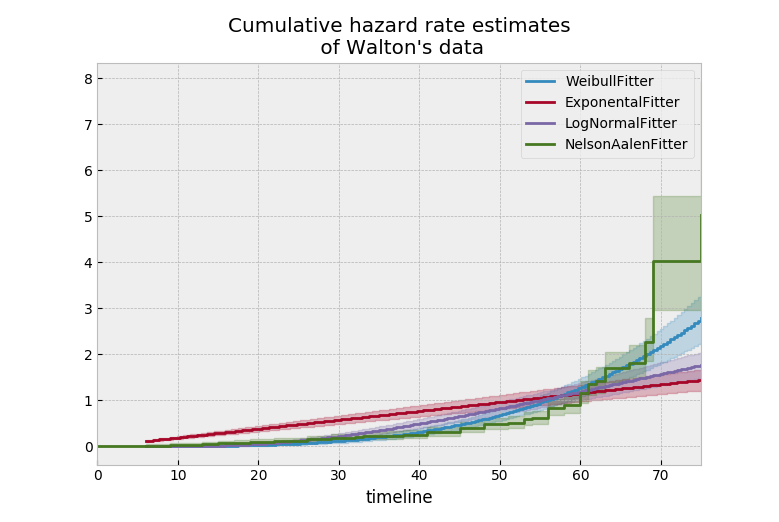
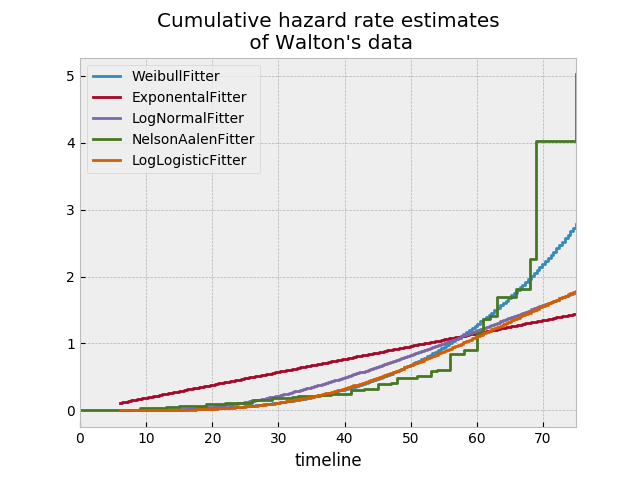
adding log-logistic fitter. This is much easier with the new patterns and autograd

diff --git a/tests/test_estimation.py b/tests/test_estimation.py
@@ -45,6 +45,7 @@ from lifelines import (
     AalenAdditiveFitter,
     AalenJohansenFitter,
     LogNormalFitter,
+    LogLogisticFitter,
 )
 
 from lifelines.datasets import (
@@ -98,6 +99,7 @@ def univariate_fitters():
         ExponentialFitter,
         WeibullFitter,
         LogNormalFitter,
+        LogLogisticFitter,
     ]
 
 
@@ -470,6 +472,88 @@ class TestLogNormal:
 
         assert abs(mu / lnf.mu_ - 1) < 0.05
         assert abs(sigma / lnf.sigma_ - 1) < 0.05
+
+
+class TestLogLogisticFitter:
+    @pytest.fixture()
+    def llf(self):
+        return LogLogisticFitter()
+
+    def test_loglogistic_model_does_not_except_negative_or_zero_values(self, llf):
+
+        T = [0, 1, 2, 4, 5]
+        with pytest.raises(ValueError):
+            llf.fit(T)
+
+        T[0] = -1
+        with pytest.raises(ValueError):
+            llf.fit(T)
+
+    def test_llf_simple_inference(self, llf):
+        from scipy.stats import fisk
+
+        T = fisk.rvs(1, scale=1, size=60000)
+        llf.fit(T)
+        assert abs(llf.alpha_ - 1) < 0.05
+        assert abs(llf.beta_ - 1) < 0.05
+
+    def test_llf_less_simple_inference(self, llf):
+        from scipy.stats import fisk
+
+        scale = 0.3
+        c = 5.4
+        T = fisk.rvs(c, scale=scale, size=60000)
+        llf.fit(T)
+        assert abs(llf.alpha_ - scale) < 0.05
+        assert abs(llf.beta_ - c) < 0.05
+
+    def test_llf_less_simple_inference_with_censorship(self, llf):
+        from scipy.stats import fisk
+
+        scale = 0.3
+        c = 5.4
+        T = fisk.rvs(c, scale=scale, size=120000)
+        C = fisk.rvs(c, scale=scale, size=120000)
+        E = T < C
+        T = np.minimum(T, C)
+        assert 1 > E.mean() > 0
+
+        llf.fit(T, E)
+        assert abs(llf.alpha_ - scale) < 0.05
+        assert abs(llf.beta_ - c) < 0.05
+
+    def test_llf_large_values(self, llf):
+        from scipy.stats import fisk
+
+        scale = 20
+        c = 50
+        T = fisk.rvs(c, scale=scale, size=100000)
+        C = fisk.rvs(c, scale=scale, size=100000)
+        E = T < C
+        T = np.minimum(T, C)
+
+        assert 1 > E.mean() > 0
+
+        llf.fit(T, E)
+        assert abs(llf.alpha_ / scale - 1) < 0.05
+        assert abs(llf.beta_ / c - 1) < 0.05
+
+    @pytest.mark.xfail()
+    def test_llf_small_values(self, llf):
+        from scipy.stats import fisk
+
+        scale = 0.05
+        c = 0.05
+        T = fisk.rvs(c, scale=scale, size=100000)
+        C = fisk.rvs(c, scale=scale, size=100000)
+        E = T < C
+        T = np.minimum(T, C)
+
+        assert 1 > E.mean() > 0
+
+        llf.fit(T, E)
+        assert abs(llf.alpha_ - scale) < 0.02
+        assert abs(llf.beta_ - c) < 0.02
 
 
 class TestWeibullFitter:

diff --git a/lifelines/fitters/weibull_fitter.py b/lifelines/fitters/weibull_fitter.py
@@ -173,17 +173,17 @@ class WeibullFitter(UnivariateFitter):
             warnings.simplefilter("ignore")
 
             results = minimize(
-                value_and_grad(_negative_log_likelihood), # pylint: disable=no-value-for-parameter
+                value_and_grad(_negative_log_likelihood),  # pylint: disable=no-value-for-parameter
                 initial_values,
                 jac=True,
                 method="L-BFGS-B",
                 args=(T, E),
-                bounds=((0.000001, None), (0.000001, None)), # to stay well away from 0.
+                bounds=((0.000001, None), (0.000001, None)),  # to stay well away from 0.
                 options={"disp": show_progress},
             )
 
             if results.success:
-                hessian_ = hessian(_negative_log_likelihood)(results.x, T, E) # pylint: disable=no-value-for-parameter
+                hessian_ = hessian(_negative_log_likelihood)(results.x, T, E)  # pylint: disable=no-value-for-parameter
                 return results.x, -results.fun, hessian_ * T.shape[0]
             print(results)
             raise ConvergenceError("Did not converge. This is a lifelines problem, not yours;")

diff --git a/lifelines/fitters/log_normal_fitter.py b/lifelines/fitters/log_normal_fitter.py
@@ -175,7 +175,7 @@ class LogNormalFitter(UnivariateFitter):
             warnings.simplefilter("ignore")
 
             results = minimize(
-                value_and_grad(_negative_log_likelihood), # pylint: disable=no-value-for-parameter
+                value_and_grad(_negative_log_likelihood),  # pylint: disable=no-value-for-parameter
                 initial_values,
                 jac=True,
                 method="CG",
@@ -184,7 +184,10 @@ class LogNormalFitter(UnivariateFitter):
             )
 
             if results.success:
-                hessian_ = hessian(_negative_log_likelihood)(results.x, log(T), E) # pylint: disable=no-value-for-parameter
+                # pylint: disable=no-value-for-parameter
+                hessian_ = hessian(_negative_log_likelihood)(
+                    results.x, log(T), E
+                )  
                 return results.x, -results.fun, hessian_ * T.shape[0]
             print(results)
             raise ConvergenceError("Did not converge. This is a lifelines problem, not yours;")

diff --git a/lifelines/__init__.py b/lifelines/__init__.py
@@ -11,6 +11,7 @@ from lifelines.fitters.cox_time_varying_fitter import CoxTimeVaryingFitter
 from lifelines.fitters.aalen_additive_fitter import AalenAdditiveFitter
 from lifelines.fitters.aalen_johansen_fitter import AalenJohansenFitter
 from lifelines.fitters.log_normal_fitter import LogNormalFitter
+from lifelines.fitters.log_logistic_fitter import LogLogisticFitter
 
 from lifelines.version import __version__
 
@@ -25,4 +26,5 @@ __all__ = [
     "CoxTimeVaryingFitter",
     "AalenJohansenFitter",
     "LogNormalFitter",
+    "LogLogisticFitter",
 ]

diff --git a/docs/Survival analysis with lifelines.rst b/docs/Survival analysis with lifelines.rst
@@ -537,8 +537,8 @@ In lifelines, estimation is available using the ``WeibullFitter`` class. The ``p
 
 
 
-Other parametric models: Exponential & Log-Normal
-~~~~~~~~~~~~~~~~~~~~~~~~~~~~~~~~~~~~~~~~~~~~~~~~~~~~
+Other parametric models: Exponential, Log-Logistic & Log-Normal
+~~~~~~~~~~~~~~~~~~~~~~~~~~~~~~~~~~~~~~~~~~~~~~~~~~~~~~~~~~~~~~~~~
 
 Similarly, there are other parametric models in lifelines. Generally, which parametric model to choose is determined by either knowledge of the distribution of durations, or some sort of model goodness-of-fit. Below are the three parametric models, and the Nelson-Aalen nonparametric model, of the same data.
 
@@ -547,6 +547,7 @@ Similarly, there are other parametric models in lifelines. Generally, which para
     from lifelines import WeibullFitter
     from lifelines import ExponentialFitter
     from lifelines import LogNormalFitter
+    from lifelines import LogLogisticFitter
     from lifelines import NelsonAalenFitter
 
     from lifelines.datasets import load_waltons
@@ -560,11 +561,13 @@ Similarly, there are other parametric models in lifelines. Generally, which para
     exf = ExponentialFitter().fit(T, E, label='ExponentalFitter')
     lnf = LogNormalFitter().fit(T, E, label='LogNormalFitter')
     naf = NelsonAalenFitter().fit(T, E, label='NelsonAalenFitter')
+    llf = LogLogisticFitter().fit(T, E, label='LogLogisticFitter')
 
-    ax = wf.plot()
-    ax = exf.plot(ax=ax)
-    ax = lnf.plot(ax=ax)
-    ax = naf.plot(ax=ax)
+    ax = wf.plot(ci_show=False)
+    ax = exf.plot(ax=ax, ci_show=False)
+    ax = lnf.plot(ax=ax, ci_show=False)
+    ax = naf.plot(ax=ax, ci_show=False)
+    ax = llf.plot(ax=ax, ci_show=False)
     plt.title("Cumulative hazard rate estimates\n of Walton's data")
 
 

diff --git a/CHANGELOG.md b/CHANGELOG.md
@@ -3,7 +3,8 @@
 ### 0.18.1
  - bug fixes in `LogNormalFitter` variance estimates
  - improve convergence of `LogNormalFitter`. We now model the log of sigma internally, but still expose sigma externally. 
- - use the `autograd` lib to help with gradients
+ - use the `autograd` lib to help with gradients.
+ - New `LogLogisticFitter` univariate fitter available. 
 
 ### 0.18.0
  - `LogNormalFitter` is a new univariate fitter you can use.
